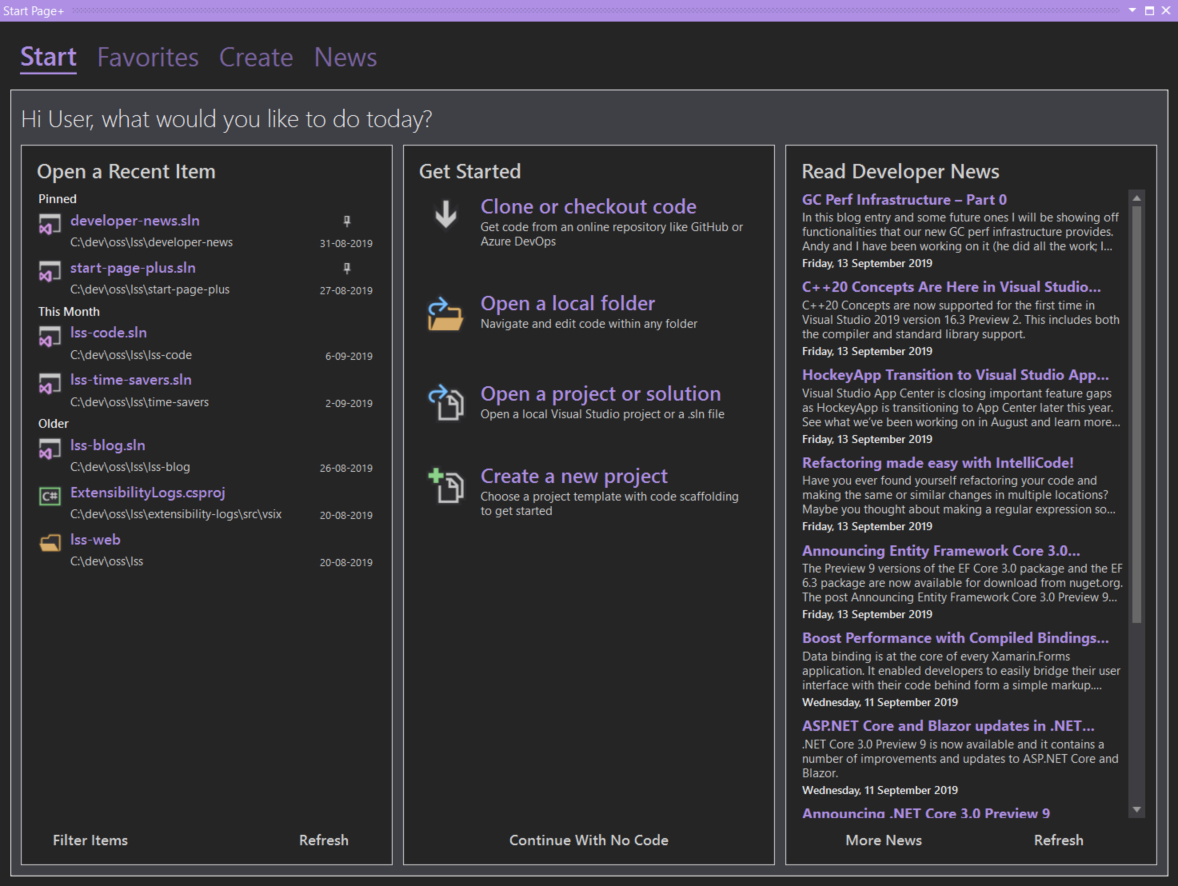
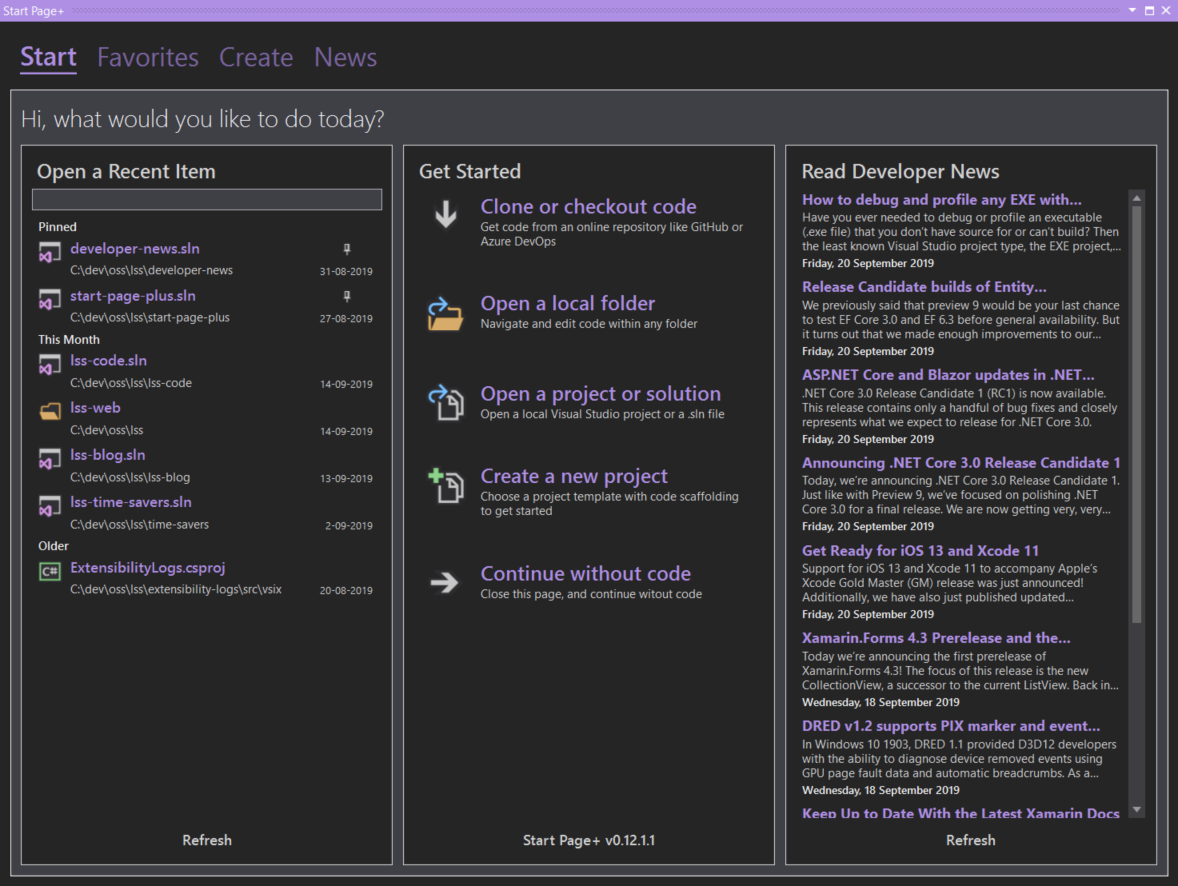
Update services and viewmodels

diff --git a/src/ui/Services/NewsItemActionService.cs b/src/ui/Services/NewsItemActionService.cs
@@ -1,56 +1,21 @@
-using System.Diagnostics;
-using System.Windows;
-using Luminous.Code.VisualStudio.Packages;
-using Microsoft.VisualStudio.Shell;
-using Microsoft.VisualStudio.Shell.Interop;
-
-namespace StartPagePlus.UI.Services
+namespace StartPagePlus.UI.Services
 {
     using Core.Interfaces;
+    using Interfaces;
     using ViewModels;
 
     public class NewsItemActionService : INewsItemActionService
     {
-        private const uint FORCE_NEW_WINDOW = (uint)__VSWBNAVIGATEFLAGS.VSNWB_ForceNew;
-        private IVsWebBrowsingService browsingService;
-        private ProcessStartInfo startInfo;
+        public NewsItemActionService(IVisualStudioService vsService)
+            => VisualStudioService = vsService;
 
-        public NewsItemActionService()
-        { }
-
-        private IVsWebBrowsingService BrowsingService
-            => browsingService ?? (browsingService = AsyncPackageBase.GetGlobalService<SVsWebBrowsingService, IVsWebBrowsingService>());
-
-        private ProcessStartInfo StartInfo
-            => startInfo
-                ?? (startInfo = new ProcessStartInfo
-                {
-                    UseShellExecute = true,
-                    Verb = "Open"
-                });
+        public IVisualStudioService VisualStudioService { get; }
 
         public void DoAction(NewsItemViewModel currentViewModel, bool internalBrowser = true)
         {
-            try
-            {
-                ThreadHelper.ThrowIfNotOnUIThread();
+            var url = currentViewModel.Link;
 
-                var url = currentViewModel.Link;
-
-                if (internalBrowser == true)
-                {
-                    BrowsingService.Navigate(url, FORCE_NEW_WINDOW, out var ppFrame);
-                }
-                else
-                {
-                    StartInfo.FileName = url;
-                    Process.Start(StartInfo);
-                }
-            }
-            catch
-            {
-                MessageBox.Show("Can't launch this url", Vsix.Name, MessageBoxButton.OK, MessageBoxImage.Error);
-            }
+            VisualStudioService.NavigateTo(url, internalBrowser);
         }
     }
 }

diff --git a/src/ui/ViewModels/StartActionsViewModel.cs b/src/ui/ViewModels/StartActionsViewModel.cs
@@ -7,17 +7,17 @@ namespace StartPagePlus.UI.ViewModels
     public class StartActionsViewModel : ColumnViewModel
     {
         private const string HEADING = "Get Started";
-
+        private const string START_PAGE_PLUS_URL = "https://luminous-software.solutions/start-page-plus";
+        private readonly bool internalBrowser = true;
         private ObservableCollection<StartActionViewModel> items = new ObservableCollection<StartActionViewModel>();
 
-        public StartActionsViewModel(IStartActionDataService dataService, IStartActionCommandService commandService)
+        public StartActionsViewModel(IStartActionDataService dataService, IStartActionCommandService commandService, IVisualStudioService vsService)
         {
             DataService = dataService;
             CommandService = commandService;
-
+            VisualStudioService = vsService;
             Heading = HEADING;
             IsVisible = true;
-
             GetCommands();
             Refresh();
         }
@@ -25,7 +25,7 @@ namespace StartPagePlus.UI.ViewModels
         public IStartActionDataService DataService { get; }
 
         public IStartActionCommandService CommandService { get; }
-
+        public IVisualStudioService VisualStudioService { get; }
         public ObservableCollection<StartActionViewModel> Items
         {
             get => items;
@@ -33,10 +33,13 @@ namespace StartPagePlus.UI.ViewModels
         }
 
         private void GetCommands()
-            => Commands = CommandService.GetCommands(/*Continue,*/ Refresh);
+            => Commands = CommandService.GetCommands(/*Continue, Refresh*/OpenWebsite);
 
         private void Continue()
         { }
+
+        private void OpenWebsite()
+            => VisualStudioService.NavigateTo(START_PAGE_PLUS_URL, internalBrowser);
 
         private void Refresh()
         {

diff --git a/src/ui/ViewModels/StartActionViewModel.cs b/src/ui/ViewModels/StartActionViewModel.cs
@@ -1,19 +1,19 @@
 using System.Windows.Input;
-using EnvDTE;
-using EnvDTE80;
 using GalaSoft.MvvmLight;
 using GalaSoft.MvvmLight.Command;
 using Microsoft.VisualStudio.Imaging.Interop;
-using Microsoft.VisualStudio.Shell;
 
 namespace StartPagePlus.UI.ViewModels
 {
+    using Interfaces;
+
     public abstract class StartActionViewModel : ViewModelBase
     {
-        private static DTE2 dte;
-
-        public StartActionViewModel()
-            => ClickCommand = new RelayCommand(ExecuteClick, true);
+        public StartActionViewModel(IVisualStudioService vsService)
+        {
+            ClickCommand = new RelayCommand(ExecuteClick, true);
+            VisualStudioService = vsService;
+        }
 
         public ImageMoniker Moniker { get; set; }
 
@@ -23,9 +23,9 @@ namespace StartPagePlus.UI.ViewModels
 
         public bool IsVisible { get; set; }
 
-        protected DTE2 Dte = dte ?? (dte = Package.GetGlobalService(typeof(_DTE)) as DTE2);
-
         public ICommand ClickCommand { get; set; }
+
+        public IVisualStudioService VisualStudioService { get; }
 
         protected virtual void ExecuteClick()
         { }

diff --git a/src/ui/Services/StartActionDataService.cs b/src/ui/Services/StartActionDataService.cs
@@ -5,19 +5,22 @@ namespace StartPagePlus.UI.Services
     using Interfaces;
     using ViewModels;
 
+
     public class StartActionDataService : IStartActionDataService
     {
-        public StartActionDataService()
-        { }
+        public StartActionDataService(IVisualStudioService vsService) => VsService = vsService;
+
+        public IVisualStudioService VsService { get; }
 
         public ObservableCollection<StartActionViewModel> GetItems()
         {
             var items = new ObservableCollection<StartActionViewModel>
             {
-                new GetCodeViewModel(),
-                new OpenFolderViewModel(),
-                new OpenProjectViewModel(),
-                new CreateProjectViewModel()
+                new GetCodeViewModel(VsService),
+                new OpenFolderViewModel(VsService),
+                new OpenProjectViewModel(VsService),
+                new CreateProjectViewModel(VsService),
+                new ContinueWithoutCodeViewModel(VsService)
             };
 
             return items;

diff --git a/src/ui/Services/StartActionCommandService.cs b/src/ui/Services/StartActionCommandService.cs
@@ -9,20 +9,14 @@ namespace StartPagePlus.UI.Services
 
     public class StartActionCommandService : IStartActionCommandService
     {
-        public ObservableCommandList GetCommands(/*Action continueWithNoCode,*/ Action refresh)
+        public ObservableCommandList GetCommands(Action openWebsite)
             => new ObservableCommandList
             {
-                //new CommandViewModel
-                //{
-                //    Name = "Continue With No Code",
-                //    Command = new RelayCommand(continueWithNoCode, true),
-                //    IsVisible = true
-                //},
                 new CommandViewModel
                 {
-                    Name = "Refresh",
-                    Command = new RelayCommand(refresh, true),
-                    IsVisible = false
+                    Name = $"{Vsix.Name} v{Vsix.Version}",
+                    Command = new RelayCommand(openWebsite, true),
+                    IsVisible = true
                 }
             };
     }

diff --git a/src/ui/ViewModels/ContinueWithoutCodeViewModel.cs b/src/ui/ViewModels/ContinueWithoutCodeViewModel.cs
@@ -1,0 +1,19 @@
+using Microsoft.VisualStudio.Imaging;
+
+namespace StartPagePlus.UI.ViewModels
+{
+    using Interfaces;
+
+    public class ContinueWithoutCodeViewModel : StartActionViewModel
+    {
+        public ContinueWithoutCodeViewModel(IVisualStudioService service) : base(service)
+        {
+            Moniker = KnownMonikers.GoToNext;
+            Name = "Continue without code";
+            Description = "Close this page, and continue witout code";
+        }
+
+        protected override void ExecuteClick()
+            => VisualStudioService.ShowMessage("This will close the start page in a future version of Start Page+");
+    }
+}

diff --git a/src/ui/ViewModels/OpenProjectViewModel.cs b/src/ui/ViewModels/OpenProjectViewModel.cs
@@ -2,9 +2,11 @@
 
 namespace StartPagePlus.UI.ViewModels
 {
+    using Interfaces;
+
     public class OpenProjectViewModel : StartActionViewModel
     {
-        public OpenProjectViewModel()
+        public OpenProjectViewModel(IVisualStudioService vsService) : base(vsService)
         {
             Moniker = KnownMonikers.OpenDocumentGroup;
             Name = "Open a project or solution";
@@ -12,6 +14,6 @@ namespace StartPagePlus.UI.ViewModels
         }
 
         protected override void ExecuteClick()
-            => Dte?.ExecuteCommand("File.OpenProject");
+            => VisualStudioService.ExecuteCommand("File.OpenProject");
     }
 }

diff --git a/src/ui/ViewModels/GetCodeViewModel.cs b/src/ui/ViewModels/GetCodeViewModel.cs
@@ -2,9 +2,11 @@
 
 namespace StartPagePlus.UI.ViewModels
 {
+    using Interfaces;
+
     public class GetCodeViewModel : StartActionViewModel
     {
-        public GetCodeViewModel()
+        public GetCodeViewModel(IVisualStudioService vsService) : base(vsService)
         {
             Moniker = KnownMonikers.DownloadNoColor;
             Name = "Clone or checkout code";
@@ -13,6 +15,6 @@ namespace StartPagePlus.UI.ViewModels
         }
 
         protected override void ExecuteClick()
-            => Dte?.ExecuteCommand("File.Cloneorcheckoutcode");
+            => VisualStudioService.ExecuteCommand("File.Cloneorcheckoutcode");
     }
 }

diff --git a/src/ui/ViewModels/CreateProjectViewModel.cs b/src/ui/ViewModels/CreateProjectViewModel.cs
@@ -2,9 +2,11 @@
 
 namespace StartPagePlus.UI.ViewModels
 {
+    using Interfaces;
+
     public class CreateProjectViewModel : StartActionViewModel
     {
-        public CreateProjectViewModel()
+        public CreateProjectViewModel(IVisualStudioService vsService) : base(vsService)
         {
             Moniker = KnownMonikers.AddDocumentGroup;
             Name = "Create a new project";
@@ -12,6 +14,6 @@ namespace StartPagePlus.UI.ViewModels
         }
 
         protected override void ExecuteClick()
-            => Dte?.ExecuteCommand("File.NewProject");
+            => VisualStudioService.ExecuteCommand("File.NewProject");
     }
 }

diff --git a/src/ui/ViewModels/OpenFolderViewModel.cs b/src/ui/ViewModels/OpenFolderViewModel.cs
@@ -2,9 +2,11 @@
 
 namespace StartPagePlus.UI.ViewModels
 {
+    using Interfaces;
+
     public class OpenFolderViewModel : StartActionViewModel
     {
-        public OpenFolderViewModel()
+        public OpenFolderViewModel(IVisualStudioService vsService) : base(vsService)
         {
             Moniker = KnownMonikers.OpenFolder;
             Name = "Open a local folder";
@@ -12,6 +14,6 @@ namespace StartPagePlus.UI.ViewModels
         }
 
         protected override void ExecuteClick()
-            => Dte?.ExecuteCommand("File.OpenFolder");
+            => VisualStudioService.ExecuteCommand("File.OpenFolder");
     }
 }
